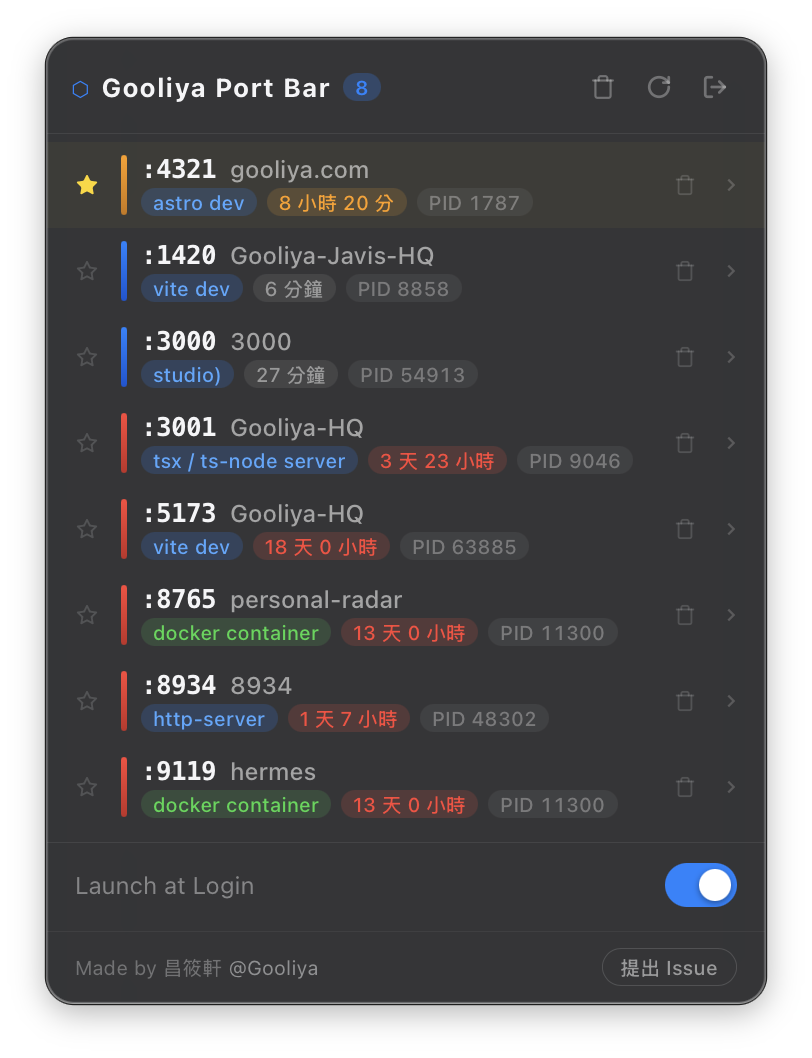
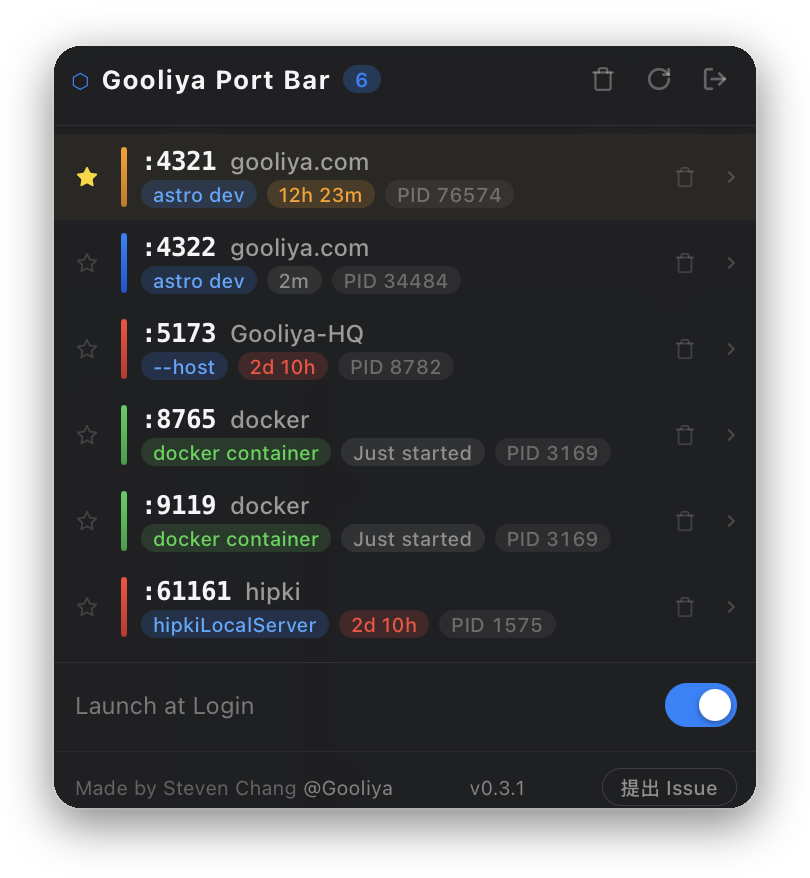
docs: add Recent updates (EN/zh-TW/JA) and refresh screenshot

diff --git a/README.ja.md b/README.ja.md
@@ -14,7 +14,7 @@ English: [README.md](./README.md) | 繁體中文: [README.zh-TW.md](./README.zh-
 
 ## 機能
 
-- ローカルでリッスン中の全ポートを一覧表示。Node の開発サーバー(`vite`、`astro`、`next`、`tsx`/`ts-node` など)と Docker コンテナに対応
+- ローカルでリッスン中の全ポートを一覧表示。Node の開発サーバー(`vite`、`astro`、`next`、`tsx`/`ts-node` など)と Docker コンテナ(Docker Desktop、OrbStack、Colima など)に対応
 - ポートをクリックするだけで既定のブラウザで開ける
 - よく使う項目をピン留めして、一覧の一番上に固定
 - 各項目に分かりやすい表示名を設定できる
@@ -25,6 +25,19 @@ English: [README.md](./README.md) | 繁體中文: [README.zh-TW.md](./README.zh-
 - ログイン時の自動起動をオプションで設定可能
 - 完全にメニューバーに常駐し、Dock は占有しない
 - 単一インスタンスで動作 —— 再度起動しても新しいインスタンスは開かず、既存のウィンドウが前面に表示される
+
+## 最近のアップデート
+
+### v0.3.2 · 2026-10-05
+- **修正:** Docker Desktop だけでなく OrbStack、Colima、Podman でも Docker コンテナを検出できるようになりました。プロセス名からの推測をやめ、`docker ps` を直接読み取ります。
+- **変更:** アプリ内のテキストをすべて英語に統一しました。
+- **更新:** デモ動画とスクリーンショットを刷新しました。
+- **MCP:** MCP サーバーも同じスキャナーを使うため、Docker の修正が反映されます。
+
+### v0.3.1 · 2026-09-15
+- **変更:** アプリ内アップデートの案内を明示的にし、インストール前に確認するようにしました。
+- **変更:** クレジットを英語名表記に変更しました。
+- **ドキュメント:** `npx` のインストールコマンドを専用のコードブロックにしました。
 
 ## インストール
 

diff --git a/README.zh-TW.md b/README.zh-TW.md
@@ -14,7 +14,7 @@ English: [README.md](./README.md) | 日本語: [README.ja.md](./README.ja.md)
 
 ## 功能
 
-- 列出本機所有正在監聽的 port,包含 Node 開發伺服器(`vite`、`astro`、`next`、`tsx`/`ts-node` 等)與 Docker container
+- 列出本機所有正在監聽的 port,包含 Node 開發伺服器(`vite`、`astro`、`next`、`tsx`/`ts-node` 等)與 Docker container(Docker Desktop、OrbStack、Colima 等)
 - 點擊 port 項目直接用預設瀏覽器開啟
 - 釘選常用項目,固定在清單最上方
 - 幫任一項目自訂顯示名稱
@@ -25,6 +25,19 @@ English: [README.md](./README.md) | 日本語: [README.ja.md](./README.ja.md)
 - 可選擇開機自動啟動
 - 完全常駐選單列,不佔用 Dock
 - 單一實例執行 —— 重複啟動 app 只會把現有視窗喚醒並取得焦點,不會開出重複的實例
+
+## 近期更新
+
+### v0.3.2 · 2026-10-05
+- **修正:** Docker container 現在在 OrbStack、Colima、Podman 下也能偵測,不再只支援 Docker Desktop。Port Bar 改為直接讀取 `docker ps`,不再用行程名稱推測。
+- **變更:** App 內所有文字改為英文。
+- **更新:** 重新製作 demo 影片與截圖。
+- **MCP:** MCP server 與 App 共用同一套掃描邏輯,同樣獲得 Docker 修正。
+
+### v0.3.1 · 2026-09-15
+- **變更:** App 內更新提示改為明確詢問,安裝前會先徵求你的同意。
+- **變更:** 致謝名單改用英文名。
+- **文件:** `npx` 安裝指令獨立成醒目的程式碼區塊。
 
 ## 安裝
 

diff --git a/README.md b/README.md
@@ -14,7 +14,7 @@ Website: [port-bar.gooliya.com](https://port-bar.gooliya.com/)
 
 ## Features
 
-- Lists all locally listening ports from Node dev servers (`vite`, `astro`, `next`, `tsx`/`ts-node`, ...) and Docker containers
+- Lists all locally listening ports from Node dev servers (`vite`, `astro`, `next`, `tsx`/`ts-node`, ...) and Docker containers (Docker Desktop, OrbStack, Colima, ...)
 - Click a port to open it in your default browser
 - Pin favorites to keep them at the top of the list
 - Rename any entry with a custom label
@@ -25,6 +25,19 @@ Website: [port-bar.gooliya.com](https://port-bar.gooliya.com/)
 - Optional launch-at-login
 - Lives entirely in the menu bar — no Dock icon
 - Single-instance — relaunching the app just focuses the existing popover instead of opening a duplicate
+
+## Recent updates
+
+### v0.3.2 · 2026-10-05
+- **Fix:** Docker containers are now detected on OrbStack, Colima, and Podman — not just Docker Desktop. Port Bar reads running containers straight from `docker ps` instead of guessing from the process name.
+- **Change:** All in-app text is now in English.
+- **New:** Refreshed demo video and screenshot.
+- **MCP:** The MCP server shares the same scanner, so it gets the Docker fix too.
+
+### v0.3.1 · 2026-09-15
+- **Change:** The in-app update prompt is now explicit — it asks before installing.
+- **Change:** Credits now show the English name.
+- **Docs:** The `npx` install command has its own highlighted code block.
 
 ## Install
 
